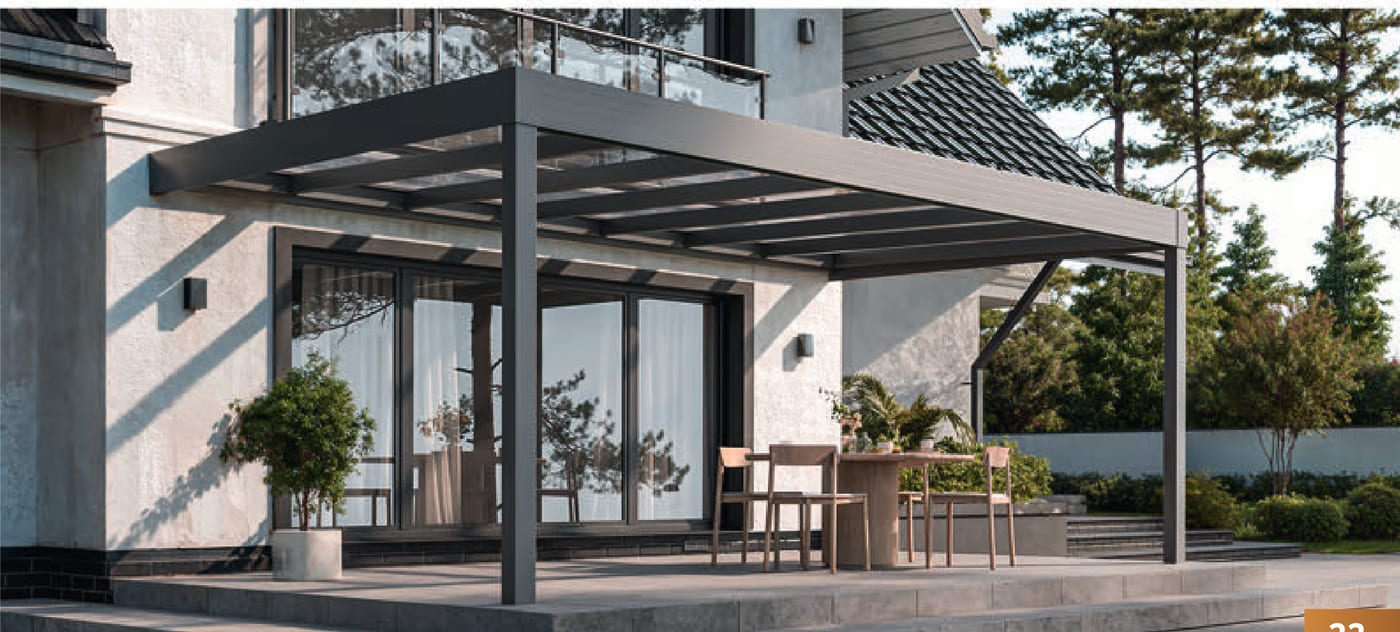
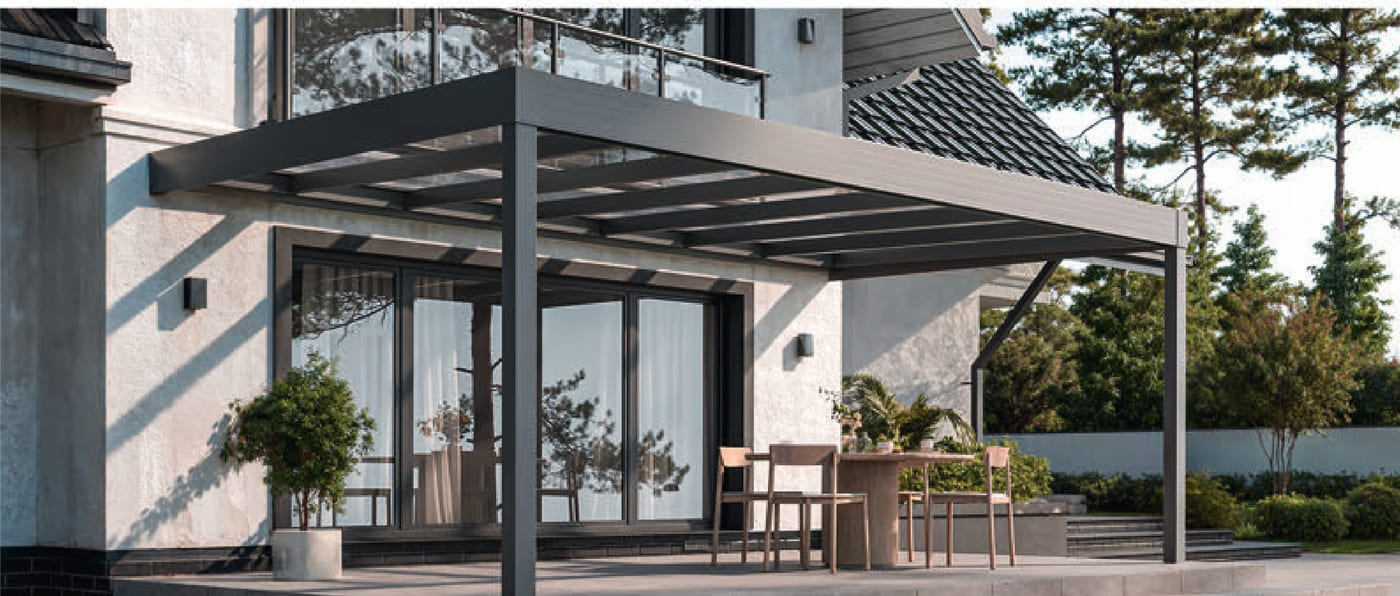
Galerien bereinigt: blasse Varianten-Renders raus (nur echte Fotos), skyview-2 Badge entfernt

diff --git a/leistung-terrassenueberdachung.html b/leistung-terrassenueberdachung.html
@@ -238,9 +238,6 @@
       <div class="galerie">
         <div class="galerie__item" data-gross="bilder/td-1.jpg"><picture><source srcset="bilder/td-1.webp" type="image/webp"><img src="bilder/td-1.jpg" alt="Aluminium-Terrassenüberdachung Beispiel 1" loading="lazy"></picture></div>
         <div class="galerie__item" data-gross="bilder/td-2.jpg"><picture><source srcset="bilder/td-2.webp" type="image/webp"><img src="bilder/td-2.jpg" alt="Aluminium-Terrassenüberdachung Beispiel 2" loading="lazy"></picture></div>
-        <div class="galerie__item" data-gross="bilder/td-3.jpg"><picture><source srcset="bilder/td-3.webp" type="image/webp"><img src="bilder/td-3.jpg" alt="Aluminium-Terrassenüberdachung Beispiel 3" loading="lazy"></picture></div>
-        <div class="galerie__item" data-gross="bilder/td-4.jpg"><picture><source srcset="bilder/td-4.webp" type="image/webp"><img src="bilder/td-4.jpg" alt="Aluminium-Terrassenüberdachung Beispiel 4" loading="lazy"></picture></div>
-        <div class="galerie__item" data-gross="bilder/td-5.jpg"><picture><source srcset="bilder/td-5.webp" type="image/webp"><img src="bilder/td-5.jpg" alt="Aluminium-Terrassenüberdachung Beispiel 5" loading="lazy"></picture></div>
         <div class="galerie__item" data-gross="bilder/terrassenueberdachung-3.jpg"><picture><source srcset="bilder/terrassenueberdachung-3.webp" type="image/webp"><img src="bilder/terrassenueberdachung-3.jpg" alt="Aluminium-Terrassenüberdachung Detail" loading="lazy"></picture></div>
       </div>
     </div>

diff --git a/leistung-skyview.html b/leistung-skyview.html
@@ -224,10 +224,6 @@
       <div class="galerie">
         <div class="galerie__item" data-gross="bilder/skyview-1.jpg"><picture><source srcset="bilder/skyview-1.webp" type="image/webp"><img src="bilder/skyview-1.jpg" alt="SkyView Beispiel 1" loading="lazy"></picture></div>
         <div class="galerie__item" data-gross="bilder/skyview-2.jpg"><picture><source srcset="bilder/skyview-2.webp" type="image/webp"><img src="bilder/skyview-2.jpg" alt="SkyView Beispiel 2" loading="lazy"></picture></div>
-        <div class="galerie__item" data-gross="bilder/skyview-3.jpg"><picture><source srcset="bilder/skyview-3.webp" type="image/webp"><img src="bilder/skyview-3.jpg" alt="SkyView Beispiel 3" loading="lazy"></picture></div>
-        <div class="galerie__item" data-gross="bilder/skyview-4.jpg"><picture><source srcset="bilder/skyview-4.webp" type="image/webp"><img src="bilder/skyview-4.jpg" alt="SkyView Beispiel 4" loading="lazy"></picture></div>
-        <div class="galerie__item" data-gross="bilder/skyview-5.jpg"><picture><source srcset="bilder/skyview-5.webp" type="image/webp"><img src="bilder/skyview-5.jpg" alt="SkyView Beispiel 5" loading="lazy"></picture></div>
-        <div class="galerie__item" data-gross="bilder/skyview-6.jpg"><picture><source srcset="bilder/skyview-6.webp" type="image/webp"><img src="bilder/skyview-6.jpg" alt="SkyView Flachdach-Terrassenüberdachung mit Holzfassade" loading="lazy"></picture></div>
       </div>
     </div>
   </section>
